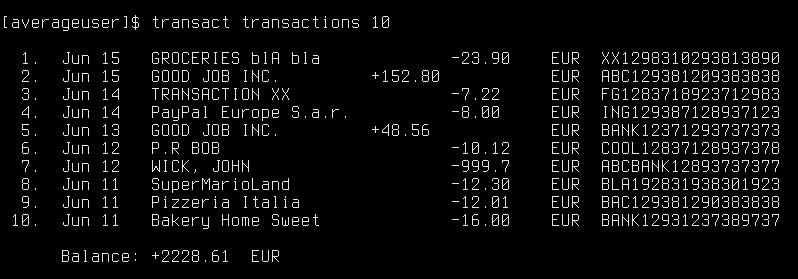
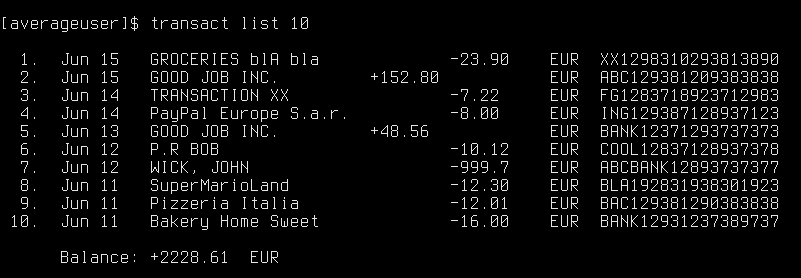
Rename transactions to list .

diff --git a/transact.py b/transact.py
@@ -282,7 +282,7 @@ if __name__ == "__main__":
         print("Usage: transact [COMMAND]")
         print("banks [COUNTRY]")
         print("link [ID]")
-        print("transactions [NUMBER]")
+        print("list [NUMBER]")
         exit()
     arg = sys.argv[1:]
     if arg[0] == "banks":
@@ -297,7 +297,7 @@ if __name__ == "__main__":
             print("Usage: transact link [ID]")
     if arg[0] == "accounts":
         list_accounts()
-    if arg[0] == "transactions":
+    if arg[0] == "list":
         num = 10
         try:
             num = int(arg[1])

diff --git a/README.md b/README.md
@@ -16,7 +16,7 @@ This script can NOT make transactions. It can only read transactions and
 balance. You can see the contents of transact.py to see the exact extent of this
 scripts' functionality.
 
-Using a terminal interface you just call `transact transactions` and you get a 
+Using a terminal interface you just call `transact list` and you get a 
 neat list of transactions containing
 
 - Date
@@ -95,7 +95,7 @@ only uses the first bank account since multiple bank accounts are not supported.
 
 If all went well you can now list your transactions and get balance with:
 ```sh
-transact transactions 10
+transact list 10
 ```
 You can specify the number of transactions you wish to see (or none) with the
 integer argument preceding the command.
